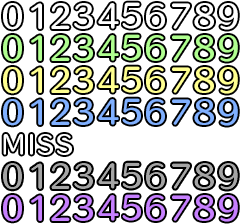
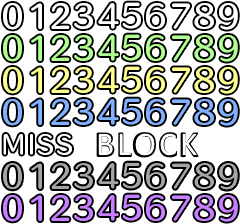
Held equipment blocking changes
Held equipment always gets treated as having at least 10 defense when calculating "damage" to them. Fixed a bunch of places where I didn't account for earlier scale changes to defense values. Added a "block" sprite popup for when held equipment is struck and arms are not.

Changed region(s): [[0.3792, 0.5625, 0.8458, 0.7188]]

diff --git a/js/plugins/TurnBasedStrategyManagers.js b/js/plugins/TurnBasedStrategyManagers.js
@@ -1770,12 +1770,12 @@ BattleManager.conductMath = function(target, damageResult, startingPart) {
 };
 
 BattleManager.getPartDamagePotential = function(damage, partProt, tough, fullCoverage) {
-	var solidCoverage = fullCoverage ? 10 : Math.min(10, partProt.defense.solid);
-	var fluidCoverage = fullCoverage ? 10 : Math.min(10, partProt.defense.fluid);
-	var solidRegularBypass = 1.5 > (solidCoverage / 10) * this._damageStressDivisor;
-	var solidThrustBypass = 1.5 > (solidCoverage / 10) * 1.66;
-	var solidStilettoBypass = 1.5 > (solidCoverage / 10) * 1.49;
-	var fluidBypass = 1.5 >= (fluidCoverage / 10) * 1.66;
+	var solidCoverage = fullCoverage ? 100 : Math.min(100, partProt.defense.solid);
+	var fluidCoverage = fullCoverage ? 100 : Math.min(100, partProt.defense.fluid);
+	var solidRegularBypass = 1.5 > (solidCoverage / 100) * 2.5;
+	var solidThrustBypass = 1.5 > (solidCoverage / 100) * 1.66;
+	var solidStilettoBypass = 1.5 > (solidCoverage / 100) * 1.49;
+	var fluidBypass = 1.5 >= (fluidCoverage / 100) * 1.66;
 	
 	var damagePotential = Math.max(0, damage.blunt - (solidRegularBypass ? partProt.armor.blunt + tough : tough));
 	damagePotential += Math.max(0, damage.cut - (solidRegularBypass ? partProt.armor.cut + tough : tough));
@@ -2120,8 +2120,10 @@ BattleManager.calculateMentalHit = function(stress, accRoll, dodgeEva, mentalDef
 };
 
 BattleManager.resolvePhysicalDamage = function(hitDamage, accRoll, eva, tripEva, partProt, tough, stress, isDown, extraStress, fullCoverage) {
-	var solidEva = eva + partProt.defense.solid;
-	var fluidEva = eva + partProt.defense.fluid;
+	var solidDef = fullCoverage ? Math.max(100, partProt.defense.solid) : partProt.defense.solid;
+	var fluidDef = fullCoverage ? Math.max(100, partProt.defense.fluid) : partProt.defense.fluid;
+	var solidEva = eva + solidDef;
+	var fluidEva = eva + fluidDef;
 	var solidEvaRoll = this.rollForRanks(solidEva, isDown ? 100 : stress);
 	var tripEvaRoll = this.rollForRanks(tripEva, isDown ? 100 : stress);
 	var fluidEvaRoll = this.rollForRanks(fluidEva, isDown ? 100 : stress);
@@ -2129,12 +2131,12 @@ BattleManager.resolvePhysicalDamage = function(hitDamage, accRoll, eva, tripEva,
 	var tripDamScale = tripEvaRoll <= 0 ? (accRoll <= 0 ? 1 : 1.5) : Math.max(0.5, Math.min(1.5, accRoll / tripEvaRoll));
 	var fluidDamScale = fluidEvaRoll <= 0 ? (accRoll <= 0 ? 1 : 1.5) : Math.max(0.5, Math.min(1.5, accRoll / fluidEvaRoll));
 	
-	var solidCoverage = fullCoverage ? 10 : Math.min(10, partProt.defense.solid);
-	var fluidCoverage = fullCoverage ? 10 : Math.min(10, partProt.defense.fluid);
-	var solidRegularBypass = solidDamScale > (solidCoverage / 10) * this._damageStressDivisor;
-	var solidThrustBypass = solidDamScale > (solidCoverage / 10) * 1.66;
-	var solidStilettoBypass = solidDamScale > (solidCoverage / 10) * 1.49;
-	var fluidBypass = fluidDamScale >= (fluidCoverage / 10) * 1.66;
+	var solidCoverage = Math.min(100, solidDef);
+	var fluidCoverage = Math.min(100, fluidDef);
+	var solidRegularBypass = solidDamScale > (solidCoverage / 100) * 2.5;
+	var solidThrustBypass = solidDamScale > (solidCoverage / 100) * 1.66;
+	var solidStilettoBypass = solidDamScale > (solidCoverage / 100) * 1.49;
+	var fluidBypass = fluidDamScale >= (fluidCoverage / 100) * 1.66;
 	
 	var returnObj = {};
 	returnObj.remainingPower = {};
@@ -2236,7 +2238,7 @@ BattleManager.resolveMentalDamage = function(hitDamage, accRoll, eva, partProt, 
 	var evaRoll = this.rollForRanks(totalEva, isDown ? 100 : stress);
 	var damScale = evaRoll <= 0 ? (accRoll <= 0 ? 1 : 1.5) : Math.max(0.5, Math.min(1.5, accRoll / evaRoll));
 	
-	var bypass = damScale >= (Math.min(10, partProt.defense) / 10) * 1.66;
+	var bypass = damScale >= (Math.min(10, partProt.defense) / 100) * 1.66;
 	
 	var finalPow = Math.max(0, damScale * hitDamage.mental - (bypass ? tough : partProt.armor + tough));
 	

diff --git a/js/plugins/TurnBasedStrategySprites.js b/js/plugins/TurnBasedStrategySprites.js
@@ -270,22 +270,26 @@ Sprite_TbsBodyPartDamage.prototype.updatePosition = function() {
 				var leftArmHit = results.hit.leftArm;
 				var leftArmDamage = results.damage.leftArm - results.heal.leftArm;
 				var leftArmCrit = results.critical.leftArm;
+				var leftArmResultsType = "physicalDamage";
 				if(!results.hit.leftArm && results.hit.leftHeld) {
 					leftArmHit = true;
 					leftArmDamage = 0;
 					leftArmCrit = false;
+					leftArmResultsType = "blocked";
 				}
-				this.setupSingleDamagePopup(leftArmHit, leftArmDamage, "physicalDamage", leftArmCrit, -90);
+				this.setupSingleDamagePopup(leftArmHit, leftArmDamage, leftArmResultsType, leftArmCrit, -90);
 					
 				var rightArmHit = results.hit.rightArm;
 				var rightArmDamage = results.damage.rightArm - results.heal.rightArm;
 				var rightArmCrit = results.critical.rightArm;
+				var rightArmResultsType = "physicalDamage";
 				if(!results.hit.rightArm && results.hit.rightHeld) {
 					rightArmHit = true;
 					rightArmDamage = 0;
 					rightArmCrit = false;
+					rightArmResultsType = "blocked";
 				}
-				this.setupSingleDamagePopup(rightArmHit, rightArmDamage, "physicalDamage", rightArmCrit, 90);
+				this.setupSingleDamagePopup(rightArmHit, rightArmDamage, rightArmResultsType, rightArmCrit, 90);
 				
 				this.setupSingleDamagePopup(results.hit.head, results.damage.head - results.heal.head,
 					"physicalDamage", results.critical.head, 0, -60);
@@ -375,6 +379,8 @@ Sprite_TbsBodyPartDamage.prototype.updatePosition = function() {
 	Sprite_Damage.prototype.setupManual = function(numValue, resultType, critical) {
 		if (resultType === "dodged") {
 			this.createMiss();
+		} else if (resultType === "blocked") {
+			this.createBlock();
 		} else if (resultType === "physicalDamage") {
 			this.createDigits(0, numValue);
 		} else if (resultType === "mentalDamage") {
@@ -385,6 +391,14 @@ Sprite_TbsBodyPartDamage.prototype.updatePosition = function() {
 		if (critical) {
 			this.setupCriticalEffect();
 		}
+	};
+	
+	Sprite_Damage.prototype.createBlock = function() {
+		var w = this.digitWidth();
+		var h = this.digitHeight();
+		var sprite = this.createChildSprite();
+		sprite.setFrame(4 * w, 4 * h, 5 * w, h);
+		sprite.dy = 0;
 	};
 	
 	Sprite_Damage.prototype.digitHeight = function() {
